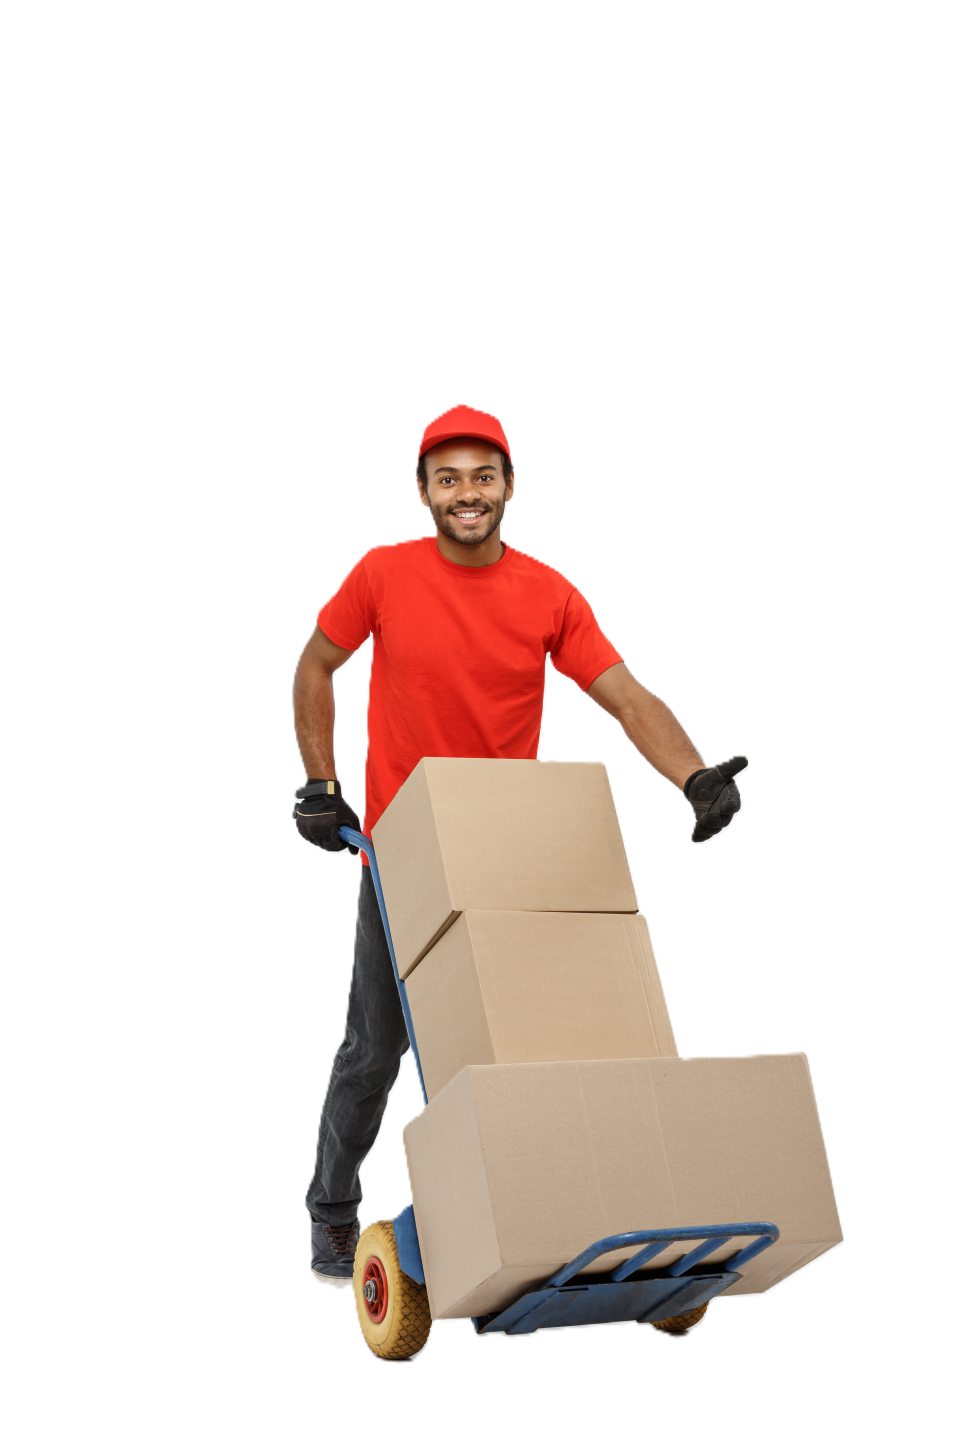
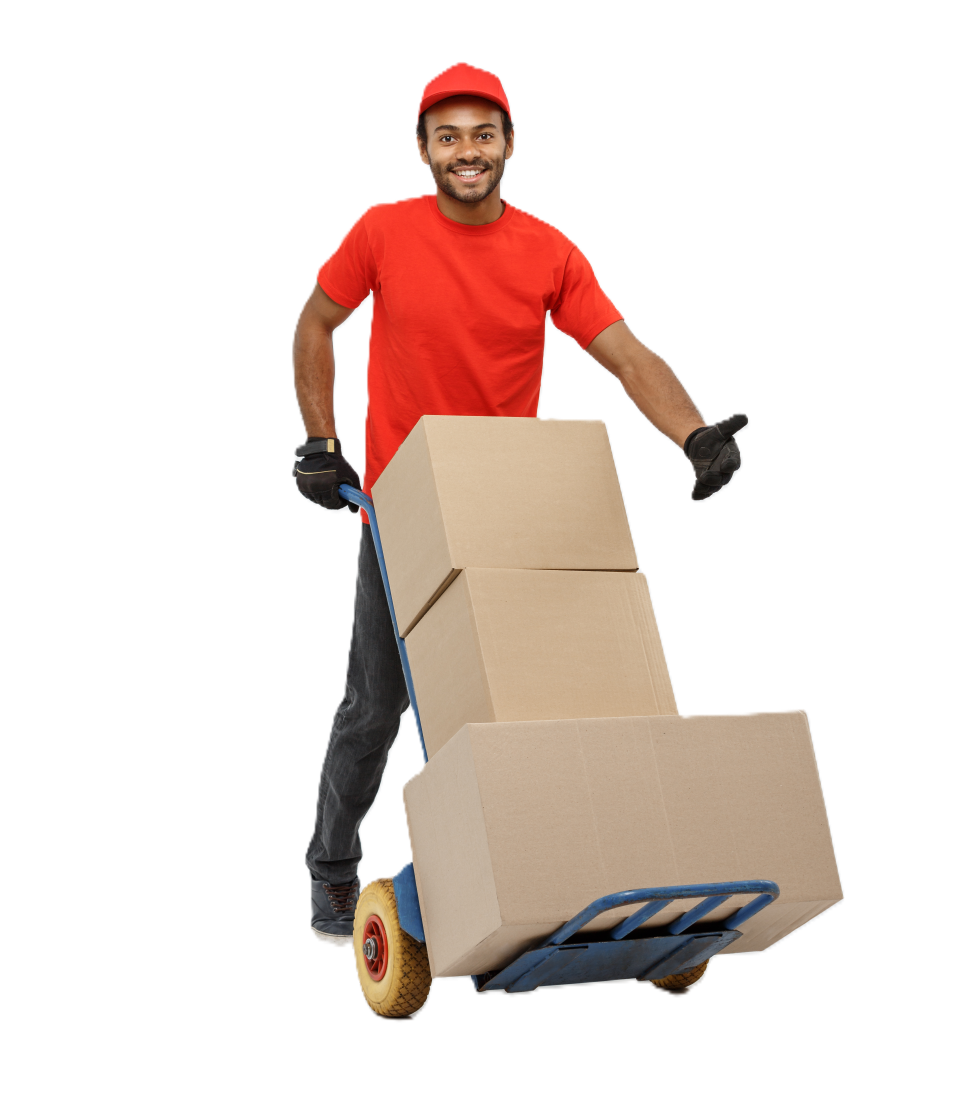
improve why choose

Changed region(s): [[0.2812, 0.031, 0.875, 0.9599], [0.4688, 0.7122, 0.5, 0.7432]]

diff --git a/src/pages/Home.jsx b/src/pages/Home.jsx
@@ -1,6 +1,7 @@
 import { Truck, Package, ShieldCheck, Clock, MapPin, Star, Award, CheckCircle, Phone } from 'lucide-react';
 import { Link } from 'react-router-dom';
 import deliveryPersonImage from '../assets/delivery-person.png';
+import transportTruckImage from '../assets/transport-truck.png';
 
 const Home = () => {
   return (
@@ -187,29 +188,24 @@ const Home = () => {
         </div>
       </section>
 
-      {/* About Section */}
-      <section id="about" className="py-20 bg-white">
-        <div className="container mx-auto px-4 flex flex-col md:flex-row items-center gap-12">
-          <div className="md:w-1/2">
-            <div className="relative">
-              <img 
-                src="https://images.unsplash.com/photo-1586528116311-ad8dd3c8310d?ixlib=rb-4.0.3&auto=format&fit=crop&w=1170&q=80" 
-                alt="Warehouse and Logistics" 
-                className="rounded-lg shadow-xl"
-              />
-              <div className="absolute -bottom-6 -right-6 bg-accent text-secondary p-6 rounded-lg shadow-xl hidden md:block">
-                <p className="text-3xl font-bold">100%</p>
-                <p className="font-semibold uppercase tracking-wide">Client Satisfaction</p>
-              </div>
-            </div>
-          </div>
-          <div className="md:w-1/2">
+      {/* About Section - Updated to full width truck image */}
+      <section id="about" className="bg-white pb-20">
+        <div
+          className="w-full h-[300px] md:h-[400px] overflow-hidden bg-center bg-cover bg-no-repeat mb-12 shadow-inner"
+          style={{
+            backgroundImage: `url(${transportTruckImage})`,
+            backgroundAttachment: "fixed",
+          }}
+        />
+
+        <div className="container mx-auto px-4">
+          <div className="max-w-4xl mx-auto text-center md:text-left">
             <h2 className="text-3xl md:text-4xl font-bold text-secondary mb-6">Why Choose <span className="text-primary">Lotus Packers</span> and Movers?</h2>
-            <div className="w-24 h-1 bg-primary mb-6"></div>
+            <div className="w-24 h-1 bg-primary mb-6 mx-auto md:mx-0"></div>
             <p className="text-gray-600 mb-6 leading-relaxed text-lg">
               With over a decade of experience in the logistics and transportation sector, Lotus Packers and Movers has established itself as one of the most trusted moving companies. We have a monumental presence and provide moving services <strong>all over India.</strong>
             </p>
-            <ul className="space-y-4 text-gray-700 mb-8 border-l-4 border-accent pl-4">
+            <ul className="space-y-4 text-gray-700 mb-8 border-l-4 border-accent pl-4 text-left">
               <li className="flex items-center gap-3">
                 <CheckCircle className="text-primary flex-shrink-0" size={24} /> <span className="font-semibold text-lg">Pan India Moving Network (Every single state covered)</span>
               </li>
